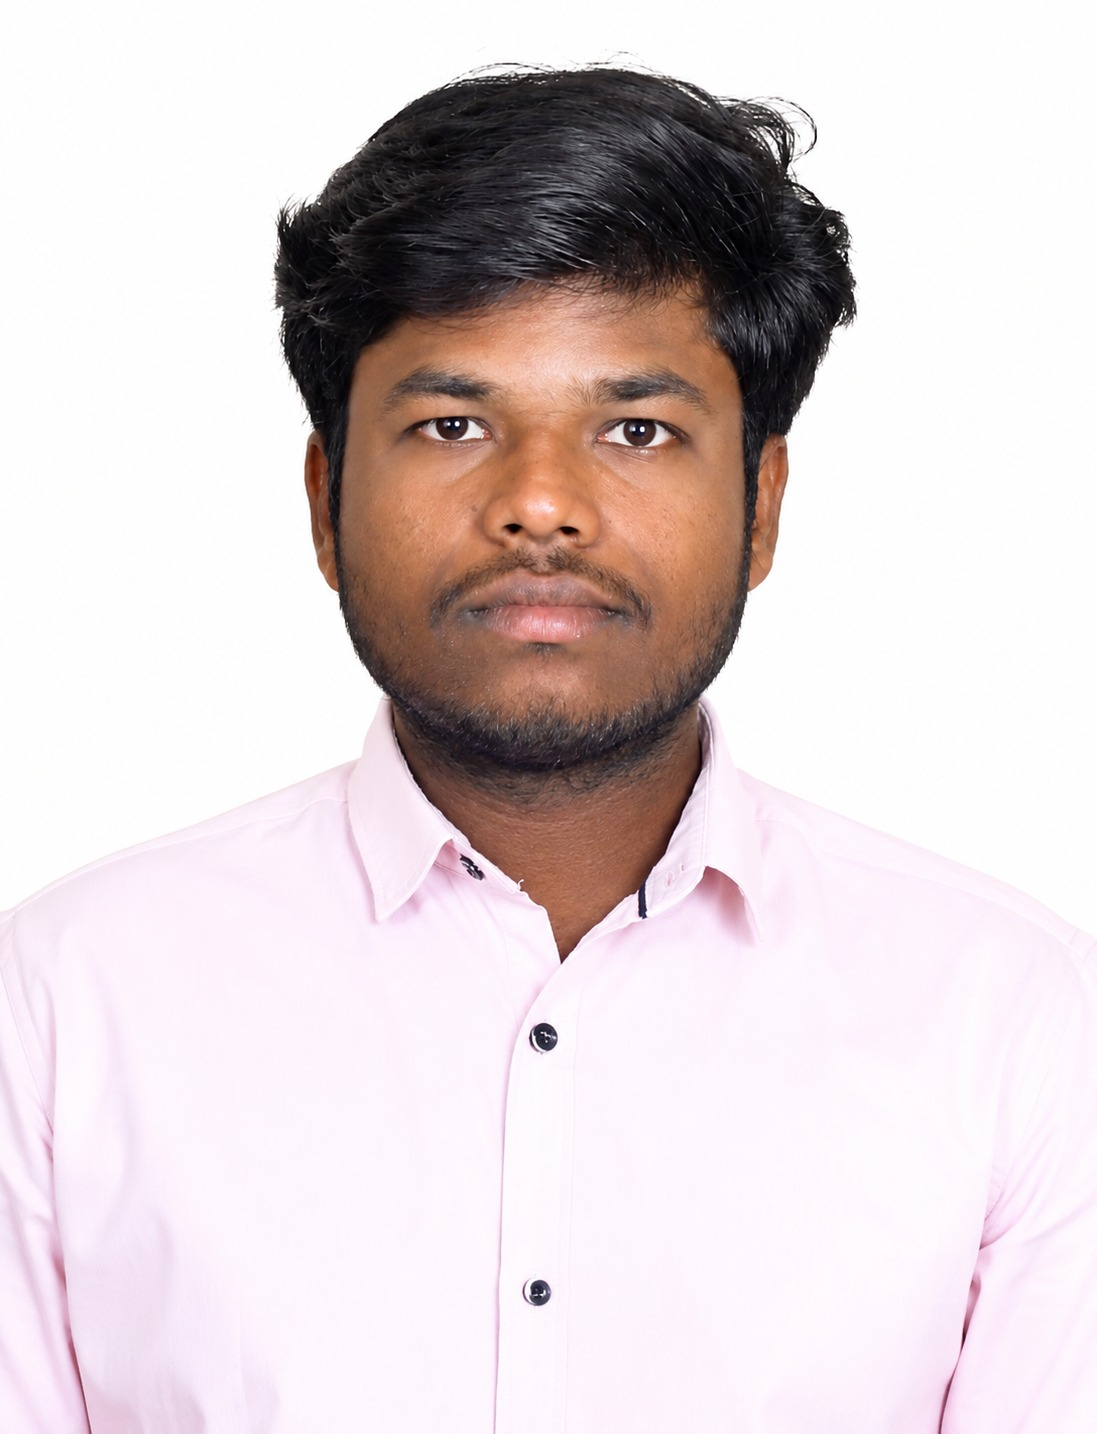
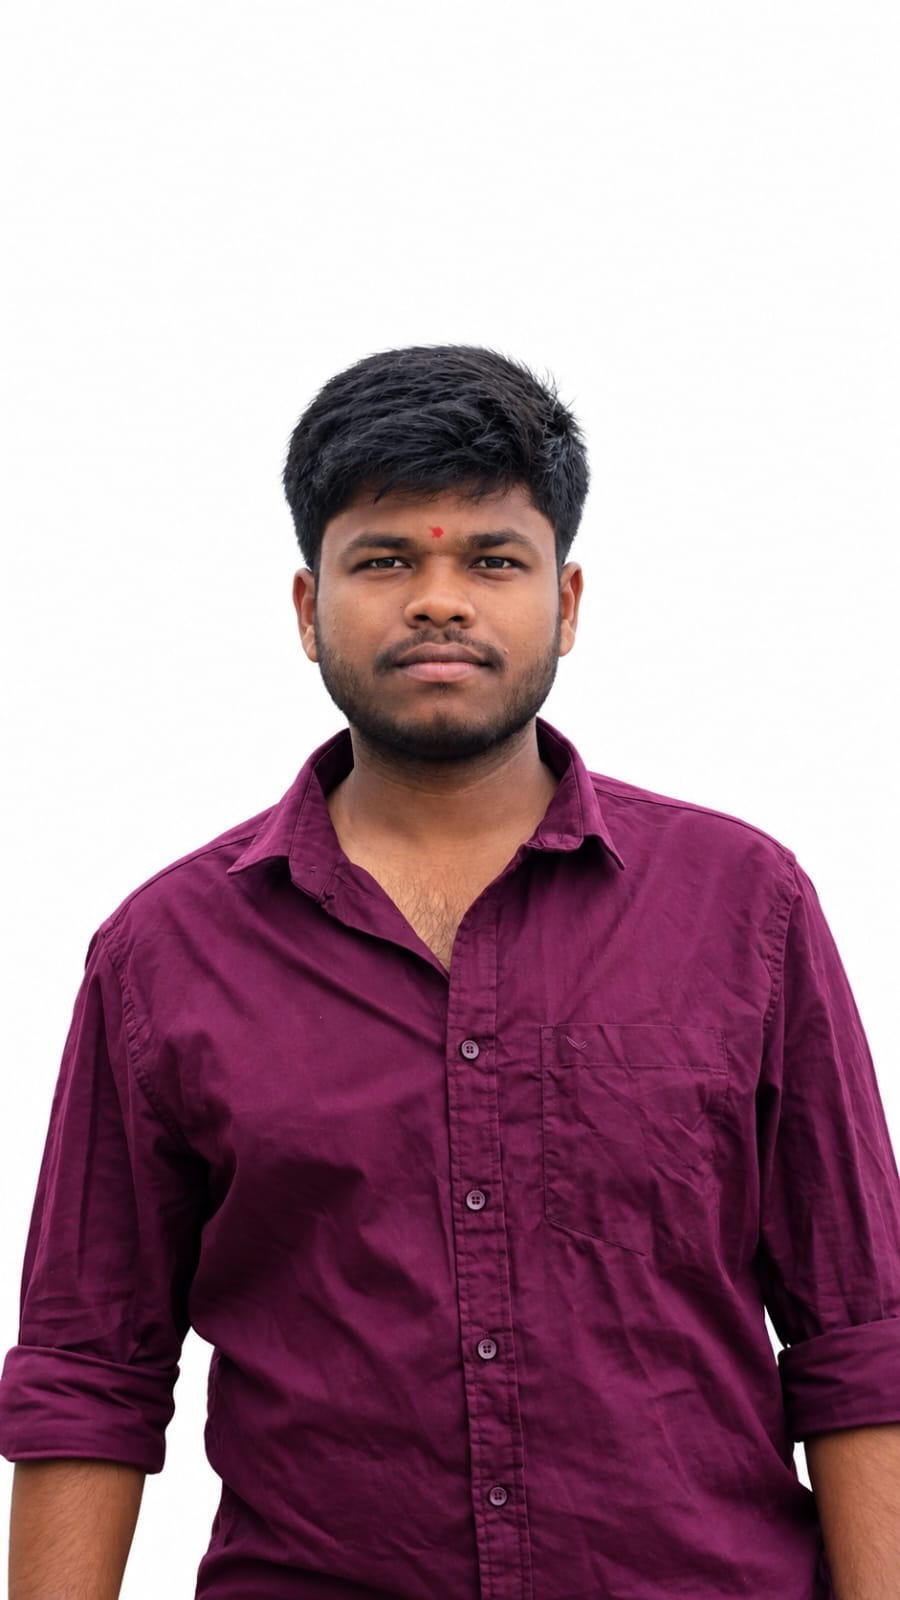
changed images and modified contact and team

diff --git a/contact.html b/contact.html
@@ -87,11 +87,10 @@
               </div>
             </div>
             <div class="contact-detail-item" id="contactWhatsapp">
-              <div class="contact-detail-icon" aria-hidden="true">💬</div>
+              <div class="contact-detail-icon" aria-hidden="true">✉</div>
               <div class="contact-detail-content">
-                <span class="contact-detail-label">WhatsApp</span>
-                <a href="https://wa.me/919290066879" target="_blank" rel="noopener noreferrer"
-                  class="contact-detail-value contact-link">+91 92900 66879</a>
+                <span class="contact-detail-label">Email</span>
+                <a href="mailto:contact.fwy@gmail.com">contact.fwy@gmail.com</a>
               </div>
             </div>
             <div class="contact-detail-item" id="contactPhone">
@@ -246,7 +245,7 @@
         <div class="footer-contact">
           <h4 class="footer-nav-title">Get in Touch</h4>
           <p>Hyderabad, Telangana, India</p>
-          <a href="https://wa.me/919290066879" target="_blank" rel="noopener noreferrer">WhatsApp Us</a>
+          <a href="mailto:contact.fwy@gmail.com">contact.fwy@gmail.com</a>
         </div>
       </div>
       <div class="footer-bottom">
